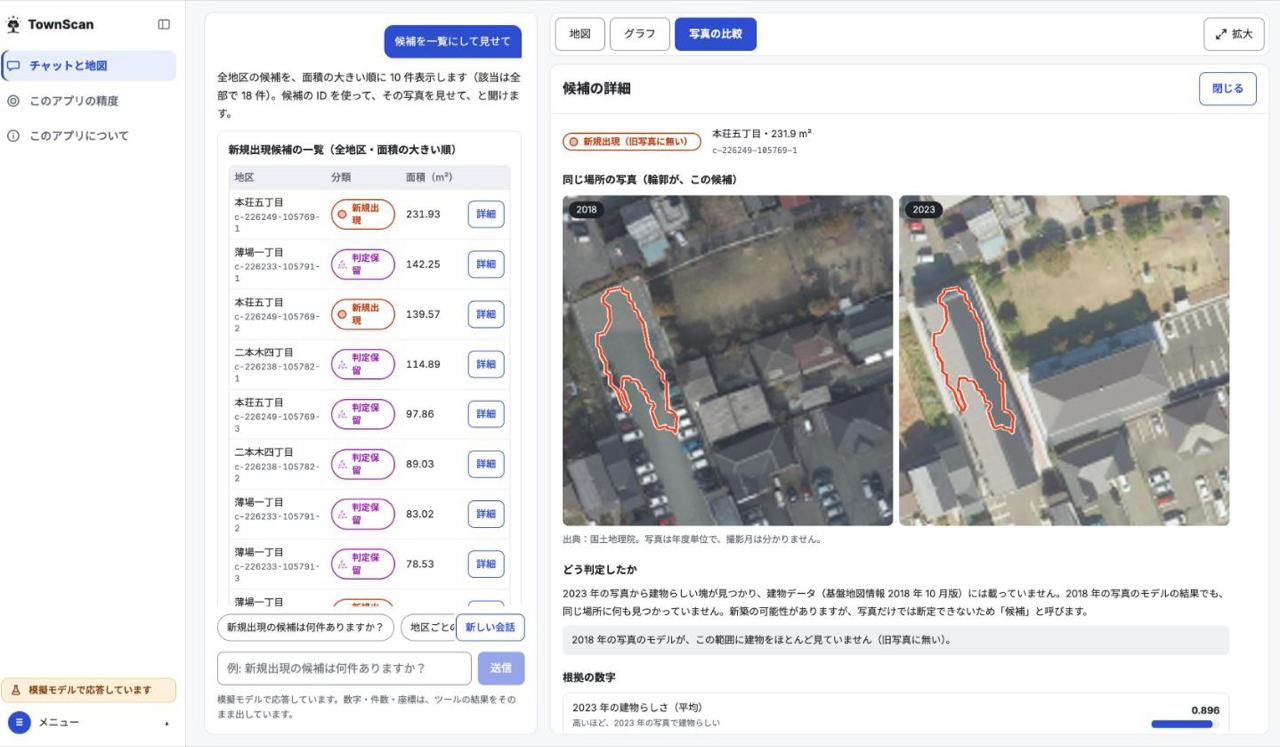
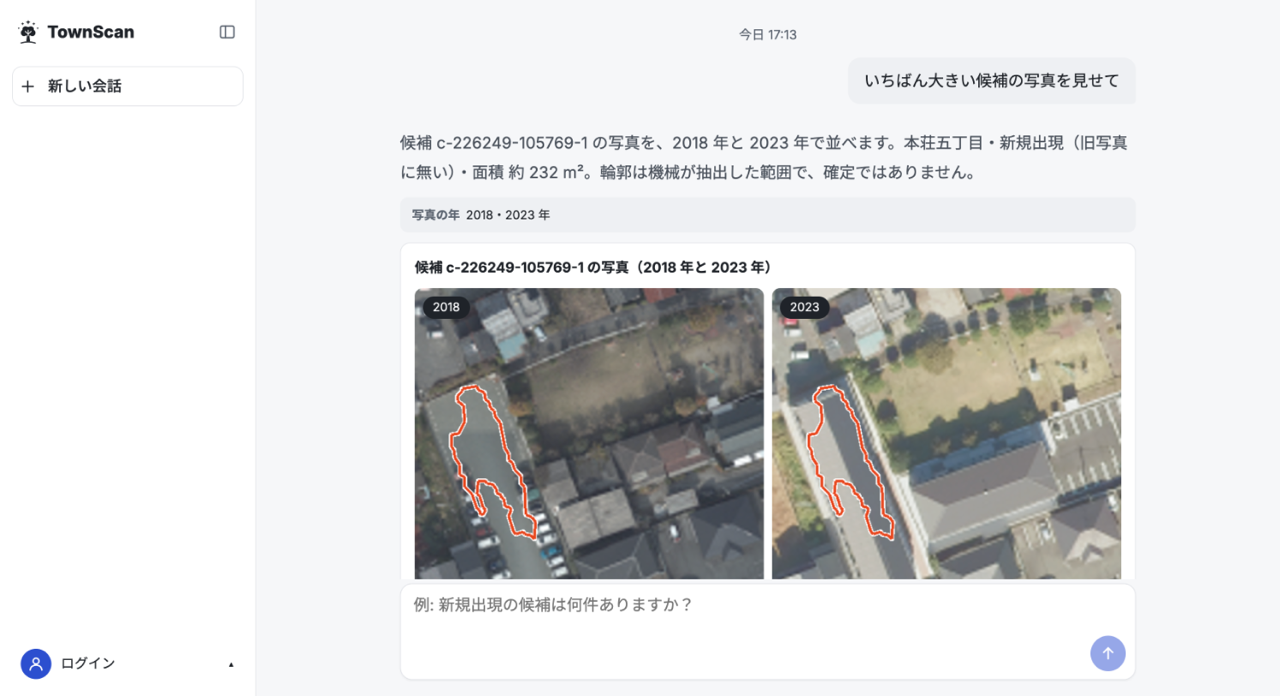
docs: retake the README screenshots for the new layout

diff --git a/README.md b/README.md
@@ -8,7 +8,7 @@ A chat app that finds candidates for new buildings in central Kumamoto City from
 
 | Candidates on the map | Photos of one candidate, 2018 and 2023 |
 |---|---|
-| <a href="docs/images/map.png"><picture><source media="(prefers-color-scheme: dark)" srcset="docs/images/map-dark.png"><img alt="Home screen: the chat column, and the map of candidates with counts per class and the Geospatial Information Authority of Japan attribution" src="docs/images/map.png"></picture></a> | <a href="docs/images/compare.png"><picture><source media="(prefers-color-scheme: dark)" srcset="docs/images/compare-dark.png"><img alt="Photo comparison: an answer in the chat and the 2018 and 2023 photos of one candidate with its outline and the reasons" src="docs/images/compare.png"></picture></a> |
+| <a href="docs/images/map.png"><picture><source media="(prefers-color-scheme: dark)" srcset="docs/images/map-dark.png"><img alt="Home screen: an answer in the chat with its map of candidates, counts per class and the Geospatial Information Authority of Japan attribution" src="docs/images/map.png"></picture></a> | <a href="docs/images/compare.png"><picture><source media="(prefers-color-scheme: dark)" srcset="docs/images/compare-dark.png"><img alt="Photo comparison: an answer in the chat with the 2018 and 2023 photos of one candidate and its outline" src="docs/images/compare.png"></picture></a> |
 
 ## Features
 

diff --git a/README.ja.md b/README.ja.md
@@ -8,7 +8,7 @@
 
 | 地図の上の候補 | 1 件の 2018 年と 2023 年の写真 |
 |---|---|
-| <a href="docs/images/map.png"><picture><source media="(prefers-color-scheme: dark)" srcset="docs/images/map-dark.png"><img alt="ホーム画面。チャットの列と、分類ごとの件数つきの地図。国土地理院の出典が見える" src="docs/images/map.png"></picture></a> | <a href="docs/images/compare.png"><picture><source media="(prefers-color-scheme: dark)" srcset="docs/images/compare-dark.png"><img alt="写真の比較。チャットの回答と、1 件の候補の 2018 年・2023 年の写真（輪郭と判定の理由つき）" src="docs/images/compare.png"></picture></a> |
+| <a href="docs/images/map.png"><picture><source media="(prefers-color-scheme: dark)" srcset="docs/images/map-dark.png"><img alt="ホーム画面。チャットの回答の中に、分類ごとの件数つきの地図が出る。国土地理院の出典が見える" src="docs/images/map.png"></picture></a> | <a href="docs/images/compare.png"><picture><source media="(prefers-color-scheme: dark)" srcset="docs/images/compare-dark.png"><img alt="写真の比較。チャットの回答の中に、1 件の候補の 2018 年・2023 年の写真（輪郭つき）が出る" src="docs/images/compare.png"></picture></a> |
 
 ## 機能
 
